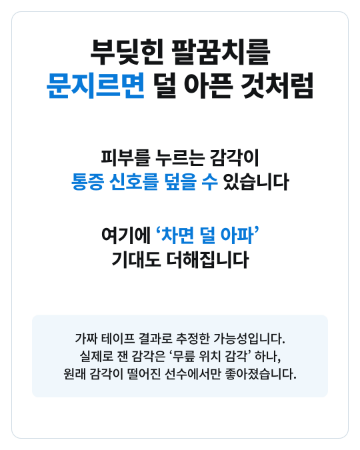
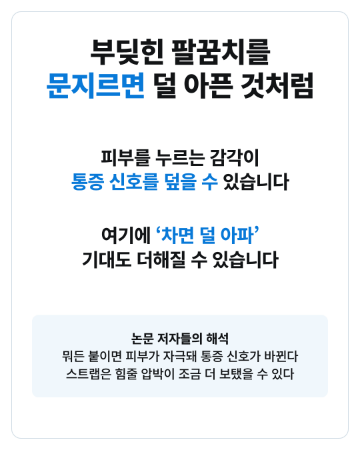
Patellar strap card 03: real medians from de Vries 2016 full text; card 05 authors' interpretation
Placebo tape did not reduce decline-squat pain significantly vs control;
strap/tape did not differ from placebo. Sources updated from full text.

Claude-Session: https://claude.ai/code/session_01GjYRY9i7LLGWcysU9DHVMw

Changed region(s): [[0.1528, 0.7156, 0.825, 0.8711], [0.2139, 0.56, 0.7944, 0.6222]]

diff --git a/content/patellar-strap-runners/source/charts/vas.html b/content/patellar-strap-runners/source/charts/vas.html
@@ -2,22 +2,24 @@
 @font-face{font-family:'Noto Sans KR';src:url('../../../../templates/fonts/NotoSansKR-VF.ttf');font-weight:100 900}
 html,body{margin:0;padding:0;background:#fff}
 .c{position:relative;width:888px;height:400px;font-family:'Noto Sans KR',sans-serif;color:#121416;overflow:hidden}
-.t{position:absolute;text-align:center;letter-spacing:-.03em;line-height:1.2}
+.t{position:absolute;letter-spacing:-.03em;line-height:1.2;white-space:nowrap}
 svg{position:absolute;left:0;top:0}
 </style></head><body><div class="c">
-<!-- 0~100mm 선: x 64~824 (760px = 100mm, 7.6px/mm). 14mm = 106.4px -->
+<!-- 0~100mm 축: x 250~850 (6px/mm). 값 = de Vries 2016 Table 2, 한 다리 경사 스쿼트 10회 중앙값 -->
 <svg width="888" height="400" viewBox="0 0 888 400">
-  <defs><marker id="h" viewBox="0 0 10 10" refX="5" refY="5" markerWidth="4" markerHeight="4" orient="auto-start-reverse"><path d="M0,0 L10,5 L0,10 z" fill="#0879d8"/></marker></defs>
-  <line x1="64" y1="236" x2="824" y2="236" stroke="#121416" stroke-width="6" stroke-linecap="round"/>
-  <line x1="64" y1="208" x2="64" y2="264" stroke="#121416" stroke-width="6" stroke-linecap="round"/>
-  <line x1="824" y1="208" x2="824" y2="264" stroke="#121416" stroke-width="6" stroke-linecap="round"/>
-  <line x1="497.2" y1="176" x2="414.8" y2="176" stroke="#0879d8" stroke-width="12" marker-end="url(#h)"/>
-  <line x1="497.2" y1="160" x2="497.2" y2="192" stroke="#0879d8" stroke-width="5"/>
-  <line x1="390.8" y1="160" x2="390.8" y2="192" stroke="#0879d8" stroke-width="5"/>
+  <line x1="250" y1="22" x2="250" y2="330" stroke="#121416" stroke-width="3"/>
+  <line x1="850" y1="22" x2="850" y2="330" stroke="#d0dce5" stroke-width="3" stroke-dasharray="6 8"/>
+  <rect x="250" y="40"  width="198" height="64" rx="8" fill="#9aa3ad"/>
+  <rect x="250" y="138" width="156" height="64" rx="8" fill="#9fc8ee"/>
+  <rect x="250" y="236" width="114" height="64" rx="8" fill="#0879d8"/>
 </svg>
-<div class="t" style="left:244px;width:400px;top:30px;font-size:96px;font-weight:850;color:#0879d8">−14mm</div>
-<div class="t" style="left:4px;width:120px;top:282px;font-size:40px;font-weight:800">0</div>
-<div class="t" style="left:764px;width:120px;top:282px;font-size:40px;font-weight:800">100</div>
-<div class="t" style="left:0;width:240px;top:334px;font-size:32px;font-weight:500;color:#5e6570">통증 없음</div>
-<div class="t" style="left:608px;width:280px;top:334px;font-size:32px;font-weight:500;color:#5e6570">가장 심한 통증</div>
+<div class="t" style="right:658px;top:50px;font-size:38px;font-weight:700">안 찼을 때</div>
+<div class="t" style="right:658px;top:148px;font-size:38px;font-weight:700">가짜 테이프</div>
+<div class="t" style="right:658px;top:246px;font-size:38px;font-weight:800;color:#0879d8">진짜 스트랩</div>
+<div class="t" style="left:462px;top:46px;font-size:44px;font-weight:800">33</div>
+<div class="t" style="left:420px;top:144px;font-size:44px;font-weight:800">26</div>
+<div class="t" style="left:378px;top:242px;font-size:44px;font-weight:850;color:#0879d8">19</div>
+<div class="t" style="left:236px;top:340px;font-size:30px;font-weight:700">0</div>
+<div class="t" style="left:820px;top:340px;font-size:30px;font-weight:700">100</div>
+<div class="t" style="left:340px;top:340px;font-size:30px;font-weight:500;color:#5e6570">통증 점수 (mm, 중앙값)</div>
 </div></body></html>

diff --git a/content/patellar-strap-runners/source/03.html b/content/patellar-strap-runners/source/03.html
@@ -27,7 +27,7 @@ h1,p{margin:0;text-align:center}
 .flow{font-size:42px;font-weight:750;line-height:1.3;letter-spacing:-.03em}
 .arrow{font-size:34px;font-weight:800;line-height:1.05;color:var(--blue)}
 .box{background:var(--tint);border-radius:20px;padding:32px 40px;width:888px}
-</style></head><body><article class="card kind-effect"><svg class="card-frame" width="1080" height="1350" viewBox="0 0 1080 1350" aria-hidden="true"><rect x="35" y="35" width="1010" height="1280" rx="28" fill="none" stroke="#D0DCE5" stroke-width="2"/></svg><h1 class="headline">진짜 스트랩 vs<br><span class="accent">가짜 테이프</span><br>실험해 봤습니다</h1><div style="height:36px;flex:none"></div><p class="body">운동선수 97명 · 한 다리 경사 스쿼트</p><div style="height:12px;flex:none"></div><div class="photo" style="height:400px"><img src="../assets/charts/vas.png" alt="0~100mm 통증 척도에서 14mm 감소를 나타낸 화살표" style="width:888px;left:0;top:0"></div><p class="note">스트랩을 찼을 때 줄어든 폭 (화살표 길이만 실제 비율)</p><div style="height:32px;flex:none"></div><div class="box" style="padding:30px 40px;display:flex;flex-direction:column;gap:10px"><p class="item">결과 ① <span class="accent">둘 다</span> 통증이 줄었고</p><p class="item">결과 ② 둘 사이 <span class="accent">큰 차이는 없었습니다</span></p></div></article><script>// ?qa 로 열 때만 실행: contentBottom(실제 마지막 텍스트 줄/이미지), 안전영역, 넘침, 정렬, 폰트 크기를 기록한다.
+</style></head><body><article class="card kind-effect"><svg class="card-frame" width="1080" height="1350" viewBox="0 0 1080 1350" aria-hidden="true"><rect x="35" y="35" width="1010" height="1280" rx="28" fill="none" stroke="#D0DCE5" stroke-width="2"/></svg><h1 class="headline">진짜 스트랩 vs<br><span class="accent">가짜 테이프</span><br>실험해 봤습니다</h1><div style="height:24px;flex:none"></div><p class="body">선수 97명 · 한 다리 경사 스쿼트 10회 통증</p><div style="height:8px;flex:none"></div><div class="photo" style="height:400px"><img src="../assets/charts/vas.png" alt="경사 스쿼트 통증 중앙값: 안 찼을 때 33, 가짜 테이프 26, 진짜 스트랩 19" style="width:888px;left:0;top:0"></div><p class="note" style="font-size:32px">가짜 테이프 = 힘줄을 누르지 않게 짧게 붙인 키네시오 테이프</p><div style="height:20px;flex:none"></div><div class="box" style="padding:26px 40px;display:flex;flex-direction:column;gap:6px"><p class="flow">① 진짜 스트랩: <span class="accent">확실히 ↓</span> (−14mm)</p><p class="flow">② 가짜 테이프: 조금 ↓ (확실하진 않음)</p><p class="flow">③ 스트랩 vs 가짜 테이프 → <span class="accent">큰 차이 없음</span></p></div></article><script>// ?qa 로 열 때만 실행: contentBottom(실제 마지막 텍스트 줄/이미지), 안전영역, 넘침, 정렬, 폰트 크기를 기록한다.
 if (location.search.includes('qa')) (async () => {
   await document.fonts.ready;
   await Promise.all([...document.images].map(i => i.decode().catch(() => {})));

diff --git a/content/patellar-strap-runners/source/05.html b/content/patellar-strap-runners/source/05.html
@@ -27,7 +27,7 @@ h1,p{margin:0;text-align:center}
 .flow{font-size:42px;font-weight:750;line-height:1.3;letter-spacing:-.03em}
 .arrow{font-size:34px;font-weight:800;line-height:1.05;color:var(--blue)}
 .box{background:var(--tint);border-radius:20px;padding:32px 40px;width:888px}
-</style></head><body><article class="card kind-mech2"><svg class="card-frame" width="1080" height="1350" viewBox="0 0 1080 1350" aria-hidden="true"><rect x="35" y="35" width="1010" height="1280" rx="28" fill="none" stroke="#D0DCE5" stroke-width="2"/></svg><h1 class="headline">부딪힌 팔꿈치를<br><span class="accent">문지르면</span> 덜 아픈 것처럼</h1><div style="height:130px;flex:none"></div><p class="key" style="font-weight:750">피부를 누르는 감각이<br><span class="accent">통증 신호를 덮을 수</span> 있습니다</p><div style="height:88px;flex:none"></div><p class="key" style="font-weight:750">여기에 <span class="accent">‘차면 덜 아파’</span><br>기대도 더해집니다</p><div style="height:130px;flex:none"></div><div class="box" style="padding:44px 40px"><p class="note" style="color:var(--ink);font-size:38px">가짜 테이프 결과로 추정한 가능성입니다.<br>실제로 잰 감각은 ‘무릎 위치 감각’ 하나,<br>원래 감각이 떨어진 선수에서만 좋아졌습니다.</p></div></article><script>// ?qa 로 열 때만 실행: contentBottom(실제 마지막 텍스트 줄/이미지), 안전영역, 넘침, 정렬, 폰트 크기를 기록한다.
+</style></head><body><article class="card kind-mech2"><svg class="card-frame" width="1080" height="1350" viewBox="0 0 1080 1350" aria-hidden="true"><rect x="35" y="35" width="1010" height="1280" rx="28" fill="none" stroke="#D0DCE5" stroke-width="2"/></svg><h1 class="headline">부딪힌 팔꿈치를<br><span class="accent">문지르면</span> 덜 아픈 것처럼</h1><div style="height:130px;flex:none"></div><p class="key" style="font-weight:750">피부를 누르는 감각이<br><span class="accent">통증 신호를 덮을 수</span> 있습니다</p><div style="height:88px;flex:none"></div><p class="key" style="font-weight:750">여기에 <span class="accent">‘차면 덜 아파’</span><br>기대도 더해질 수 있습니다</p><div style="height:130px;flex:none"></div><div class="box" style="padding:44px 40px"><p class="note" style="color:var(--ink);font-size:38px"><span class="strong">논문 저자들의 해석</span><br>뭐든 붙이면 피부가 자극돼 통증 신호가 바뀐다<br>스트랩은 힘줄 압박이 조금 더 보탰을 수 있다</p></div></article><script>// ?qa 로 열 때만 실행: contentBottom(실제 마지막 텍스트 줄/이미지), 안전영역, 넘침, 정렬, 폰트 크기를 기록한다.
 if (location.search.includes('qa')) (async () => {
   await document.fonts.ready;
   await Promise.all([...document.images].map(i => i.decode().catch(() => {})));

diff --git a/content/patellar-strap-runners/source/build.py b/content/patellar-strap-runners/source/build.py
@@ -69,15 +69,16 @@ CARDS = [
         '<div class="slot" style="height:580px"><p class="tag">사진 넣는 자리</p>'
         '<p class="guide">스트랩을 찬 무릎 · 정면 또는 옆모습<br>띠가 무릎뼈 바로 아래 힘줄 위를 지나게</p></div>', gap(44),
         '<p class="body">무릎뼈와 정강이를 잇는 <span class="strong">힘줄</span> 위를<br>지나갑니다. 점프·착지에서 이 힘줄이<br>아픈 ‘점퍼 무릎’에서 주로 연구됐습니다.</p>']),
-    # 03 효과 — 실험 결과
+    # 03 효과 — 실험 결과 (de Vries 2016 Table 2 중앙값)
     ('kind-effect', [
-        '<h1 class="headline">진짜 스트랩 vs<br><span class="accent">가짜 테이프</span><br>실험해 봤습니다</h1>', gap(36),
-        '<p class="body">운동선수 97명 · 한 다리 경사 스쿼트</p>', gap(12),
-        '<div class="photo" style="height:400px"><img src="../assets/charts/vas.png" alt="0~100mm 통증 척도에서 14mm 감소를 나타낸 화살표" style="width:888px;left:0;top:0"></div>',
-        '<p class="note">스트랩을 찼을 때 줄어든 폭 (화살표 길이만 실제 비율)</p>', gap(32),
-        '<div class="box" style="padding:30px 40px;display:flex;flex-direction:column;gap:10px">'
-        '<p class="item">결과 ① <span class="accent">둘 다</span> 통증이 줄었고</p>'
-        '<p class="item">결과 ② 둘 사이 <span class="accent">큰 차이는 없었습니다</span></p></div>']),
+        '<h1 class="headline">진짜 스트랩 vs<br><span class="accent">가짜 테이프</span><br>실험해 봤습니다</h1>', gap(24),
+        '<p class="body">선수 97명 · 한 다리 경사 스쿼트 10회 통증</p>', gap(8),
+        '<div class="photo" style="height:400px"><img src="../assets/charts/vas.png" alt="경사 스쿼트 통증 중앙값: 안 찼을 때 33, 가짜 테이프 26, 진짜 스트랩 19" style="width:888px;left:0;top:0"></div>',
+        '<p class="note" style="font-size:32px">가짜 테이프 = 힘줄을 누르지 않게 짧게 붙인 키네시오 테이프</p>', gap(20),
+        '<div class="box" style="padding:26px 40px;display:flex;flex-direction:column;gap:6px">'
+        '<p class="flow">① 진짜 스트랩: <span class="accent">확실히 ↓</span> (−14mm)</p>'
+        '<p class="flow">② 가짜 테이프: 조금 ↓ (확실하진 않음)</p>'
+        '<p class="flow">③ 스트랩 vs 가짜 테이프 → <span class="accent">큰 차이 없음</span></p></div>']),
     # 04 기전 가설 ① 흐름 + X선
     ('kind-mech1', [
         '<h1 class="headline">기전 가설 ①<br><span class="accent">힘줄이 덜 당겨진다?</span></h1>', gap(32),
@@ -93,8 +94,8 @@ CARDS = [
     ('kind-mech2', [
         '<h1 class="headline">부딪힌 팔꿈치를<br><span class="accent">문지르면</span> 덜 아픈 것처럼</h1>', gap(130),
         '<p class="key" style="font-weight:750">피부를 누르는 감각이<br><span class="accent">통증 신호를 덮을 수</span> 있습니다</p>', gap(88),
-        '<p class="key" style="font-weight:750">여기에 <span class="accent">‘차면 덜 아파’</span><br>기대도 더해집니다</p>', gap(130),
-        '<div class="box" style="padding:44px 40px"><p class="note" style="color:var(--ink);font-size:38px">가짜 테이프 결과로 추정한 가능성입니다.<br>실제로 잰 감각은 ‘무릎 위치 감각’ 하나,<br>원래 감각이 떨어진 선수에서만 좋아졌습니다.</p></div>']),
+        '<p class="key" style="font-weight:750">여기에 <span class="accent">‘차면 덜 아파’</span><br>기대도 더해질 수 있습니다</p>', gap(130),
+        '<div class="box" style="padding:44px 40px"><p class="note" style="color:var(--ink);font-size:38px"><span class="strong">논문 저자들의 해석</span><br>뭐든 붙이면 피부가 자극돼 통증 신호가 바뀐다<br>스트랩은 힘줄 압박이 조금 더 보탰을 수 있다</p></div>']),
     # 06 슬개건병증 통증 부위
     ('kind-who', [
         '<h1 class="headline"><span class="accent">슬개건병증</span>,<br>여기가 아프다면</h1>', gap(40),

diff --git a/content/patellar-strap-runners/research/sources.md b/content/patellar-strap-runners/research/sources.md
@@ -1,14 +1,26 @@
 # 근거 자료 — 러너 슬개골 스트랩 (2026-10-16)
 
 ## 접근 제약 (먼저 읽기)
-이 환경(클라우드)에서 PubMed·PMC·Wiley·SAGE·BJSM·JOSPT·Cochrane·Europe PMC 원문 접속이 프록시에서 차단됨(403/ENOTFOUND). **모든 자료는 웹 검색으로 확인한 초록·기관 저장소 요약·2차 요약 수준이며 원문 Methods/Results/Figure를 직접 확인하지 못했다.** 게시 전 원문 대조 권장. 수치는 초록에 적힌 값만 카드에 썼다.
+이 환경(클라우드)에서 PubMed·PMC·Wiley·SAGE·BJSM·JOSPT·Cochrane·Europe PMC 원문 접속이 프록시에서 차단됨(403/ENOTFOUND). **S1(de Vries 2016)은 사용자 제공 PDF로 원문 전체 확인. 나머지 자료는 웹 검색으로 확인한 초록·기관 저장소 요약·2차 요약 수준이며 원문 Methods/Results/Figure를 직접 확인하지 못했다.** 게시 전 원문 대조 권장. 수치는 초록에 적힌 값만 카드에 썼다.
 
-## S1. 효과 — 무작위 대조 연구 (주 근거, 초록 확인)
-de Vries A, Zwerver J, Diercks R, Tak I, van Berkel S, van Cingel R, van der Worp H, van den Akker-Scheek I. *Effect of patellar strap and sports tape on pain in patellar tendinopathy: a randomized controlled trial.* Scand J Med Sci Sports 2016;26(10):1217–1224. doi:10.1111/sms.12556. PMID 26376953.
-- 대상: 슬개건병증 운동선수 97명. 군: 슬개골 스트랩 / 스포츠 테이프 / 가짜(placebo) 테이프 / 보조기 없음(대조).
-- 결과(초록): 한 다리 경사 스쿼트 통증 VAS(0~100mm) — 대조 대비 스트랩 −14mm(P=.04), 스포츠 테이프 −13mm(P=.04). 운동 중 통증: 스포츠 테이프 −7mm, 가짜 테이프 −6mm. 운동 2시간 뒤: 스트랩 −8, 테이프 −10, 가짜 테이프 −7mm.
-- 결론(초록): 스트랩·테이프는 단기 통증을 줄였지만 **가짜 테이프보다 효과적이지 않았다**. 장기 효과는 모름.
-- 한계: PEDro 4/10(배정 은폐·눈가림·ITT 미보고). 임상적 최소 중요 차이 언급 미확인 → 카드에 "의미 있는 감소"라고 쓰지 않음.
+## S1. 효과 — 무작위 대조 연구 (주 근거, 2026-10-17 사용자 제공 PDF로 원문 전체 확인)
+de Vries A, Zwerver J, Diercks R, Tak I, van Berkel S, van Cingel R, van der Worp H, van den Akker-Scheek I. *Effect of patellar strap and sports tape on pain in patellar tendinopathy: a randomized controlled trial.* Scand J Med Sci Sports 2016;26(10):1217–1224 (온라인 2015). doi:10.1111/sms.12556.
+- 대상: 18~50세, 슬개건 통증 3개월 이상, VISA-P<80, 압통, 운동 참여. 97명(남59/여38, 27.0±8.1세, VISA-P 58.5). 진단은 임상 진단만(초음파·MRI 확인 없음). 통증 위치 근위부(무릎뼈 아래끝) 78/92.
+- 조건: 안 참(대조) / 슬개골 스트랩(Push Med patellar brace) / 스포츠 테이프(비탄력 Leukotape) / **가짜 테이프: 탄력 키네시오 테이프를 짧게, 거의 늘리지 않고 붙여 힘줄에 압박이 느껴지지 않게**.
+- 1부(통제된 기능 검사, 97명 모두 네 조건을 순서 상쇄로 수행): 한 다리 경사 스쿼트(20° 경사, 무릎 60°) 1회·10회, 수직 점프(양발·한발), 트리플 홉. 매 검사 후 VAS(0~100mm).
+  - Table 2 중앙값(IQR), 경사 스쿼트 10회: 대조 33.0(36.5) / 스트랩 19.0(33.0)* / 테이프 20.0(26.0)* / 가짜 26.0(27.5). *대조 대비 P<.05.
+  - 혼합모형: 대조 대비 스트랩 −14mm(P=.04), 테이프 −13mm(P=.04). 한발 수직 점프 스트랩 −11.5mm(P=.06 경향).
+  - **가짜 테이프는 대조 대비 유의한 감소 없음. 스트랩·테이프는 가짜 테이프 대비 유의한 차이 없음.**
+  - 경사 스쿼트 1회·양발 점프 등 부하 낮은 검사는 차이 없음. 점프 높이·홉 거리 변화 없음.
+  - 임상적 의미 기준 ≥12mm(Kelly 2001) → 저자: 경사 스쿼트 10회의 14mm는 임상적으로 의미 있는 감소.
+- 2부(운동 현장 2주, 69명: 대조14/스트랩21/테이프18/가짜16, 1주 미착용 → 2주 배정 조건):
+  - 운동 중: 테이프 −7mm(P=.04), 가짜 −6mm(P=.04), 스트랩 −5mm(P=.06 경향).
+  - 운동 2시간 뒤: 스트랩 −8mm(P<.001), 테이프 −10mm(P=.001), 가짜 −7mm(P=.03). 스트랩·테이프는 대조군보다 더 감소(P=.02, .03), **가짜 테이프 대비는 차이 없음**. 모두 12mm 미만.
+  - 다음 날 아침 통증 차이 없음. 스스로 "덜 아팠다" 응답: 스트랩 80%, 테이프 72%, 가짜 56%.
+- 저자 해석(Discussion): 가짜 포함 모든 보조기에서 통증이 줄어든 것은 피부 구조 자극 → 통증(침해수용) 입력 변화 → 진통 효과 가능성(Farkas 1997). 스트랩·테이프 효과가 가짜보다 약간 컸던 것(특히 1부)은 힘줄 압박이 추가 진통을 줬을 가능성. 기전 이론으로 PPTA·유효 길이(Lavagnino 2011), 고유감각을 소개.
+- 저자 경고: 진통 위주 효과라면 통증이 줄어 힘줄에 계속 큰 부하를 줘 손상이 늘 수 있음. 힘줄 구조 변화는 측정 안 함.
+- 한계: 단기 효과만, 임상 진단만, 스트랩 1개 브랜드, 개인차 큼. 예측 인자: 스트랩 없음, 테이프는 여성에서 효과 큼(B=7.41, P=.03).
+- 지원: 스트랩·테이프 제조사가 제품 제공.
 
 ## S2. 기전 ① 힘줄 변형률 — 계산 모델 (초록 확인)
 Lavagnino M, Arnoczky SP, Dodds J, Elvin N. *Infrapatellar straps decrease patellar tendon strain at the site of the jumper's knee lesion: a computational analysis based on radiographic measurements.* Sports Health 2011;3(3):296–302. (PMC3445162)
